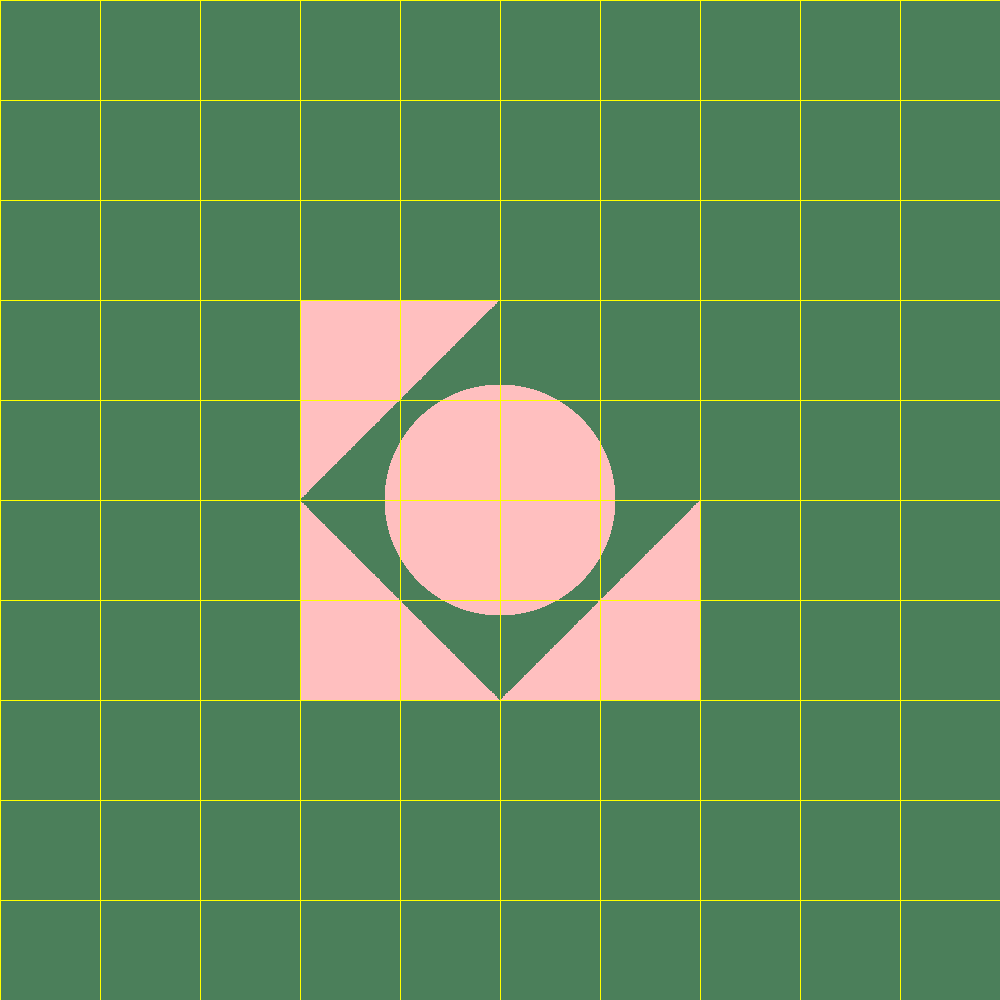
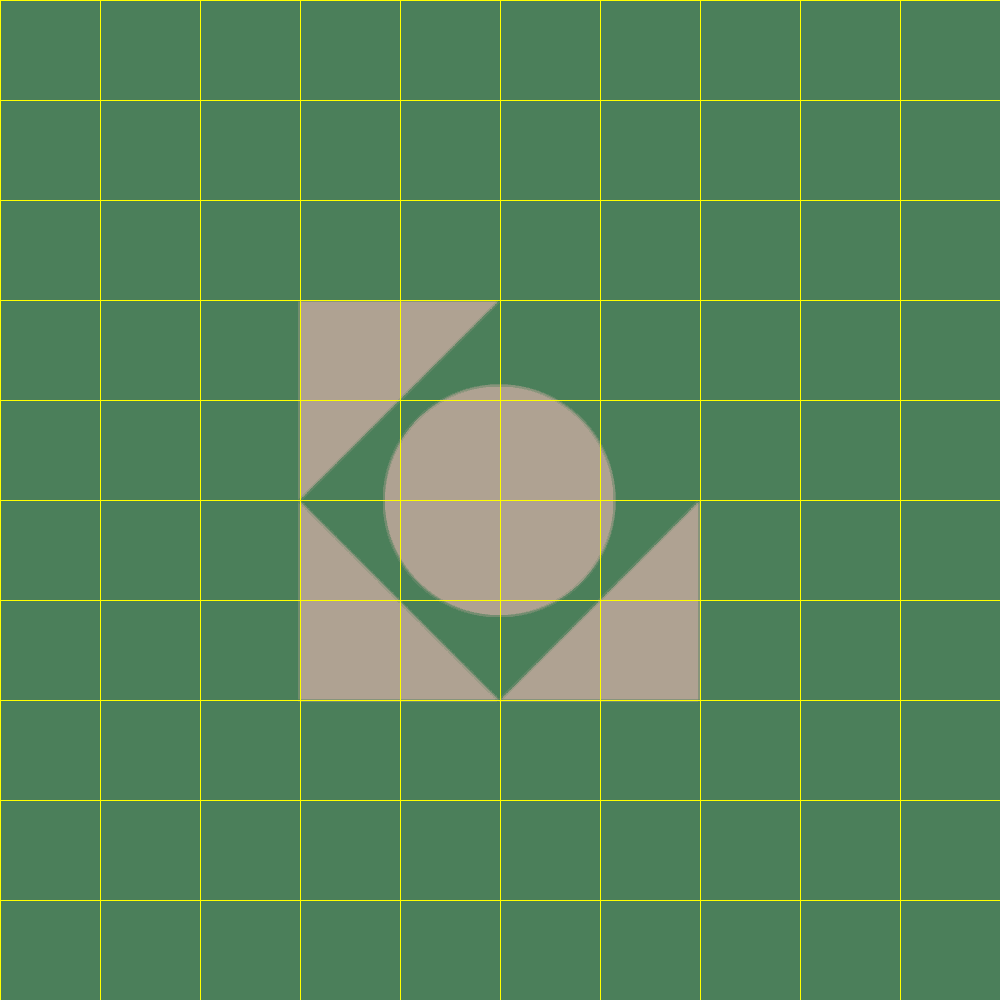
test: set recursion depth to 2 in project test

Changed region(s): [[0.279, 0.279, 0.713, 0.713]]

diff --git a/src/renderer/Camera.java b/src/renderer/Camera.java
@@ -321,7 +321,6 @@ public class Camera {
                     Pij = Pij.add(Vright.scale(x).add(Vup.scale(y)));
                 }
                 rayList.add(new Ray(P0, Pij.subtract(P0)));
-
         }
         return rayList;
     }
@@ -329,7 +328,7 @@ public class Camera {
     // ???? ???????? ??????? ?? ????????
     // ???? ?? ????? ??????? ??????? (???? ????????)
     public List<Ray> constructRaySuperSampling(int nX, int nY, int j, int i) {
-        int recursionDepth = 1;
+        int recursionDepth = 2;
         Point pointCentr = PointMiddle(nX, nY, j, i);
         double Rx = height / nX;
         double Ry = width / nY;

diff --git a/unitTests/renderer/ProjectTest.java b/unitTests/renderer/ProjectTest.java
@@ -165,7 +165,7 @@ public class ProjectTest {
         scene.getLights().add(
                 new PointLight(new Color(255,197,143),new Point(-110,700,9000)).setkL(0.0004).setkQ(0.000006));
 
-        ImageWriter imageWriter = new ImageWriter("shadown 20", 800,800);
+        ImageWriter imageWriter = new ImageWriter("recursion", 800,800);
         camera.setImageWriter(imageWriter) //
                 .setRayTracer(new RayTracerBasic(scene)) //
                 .renderImage(); //
